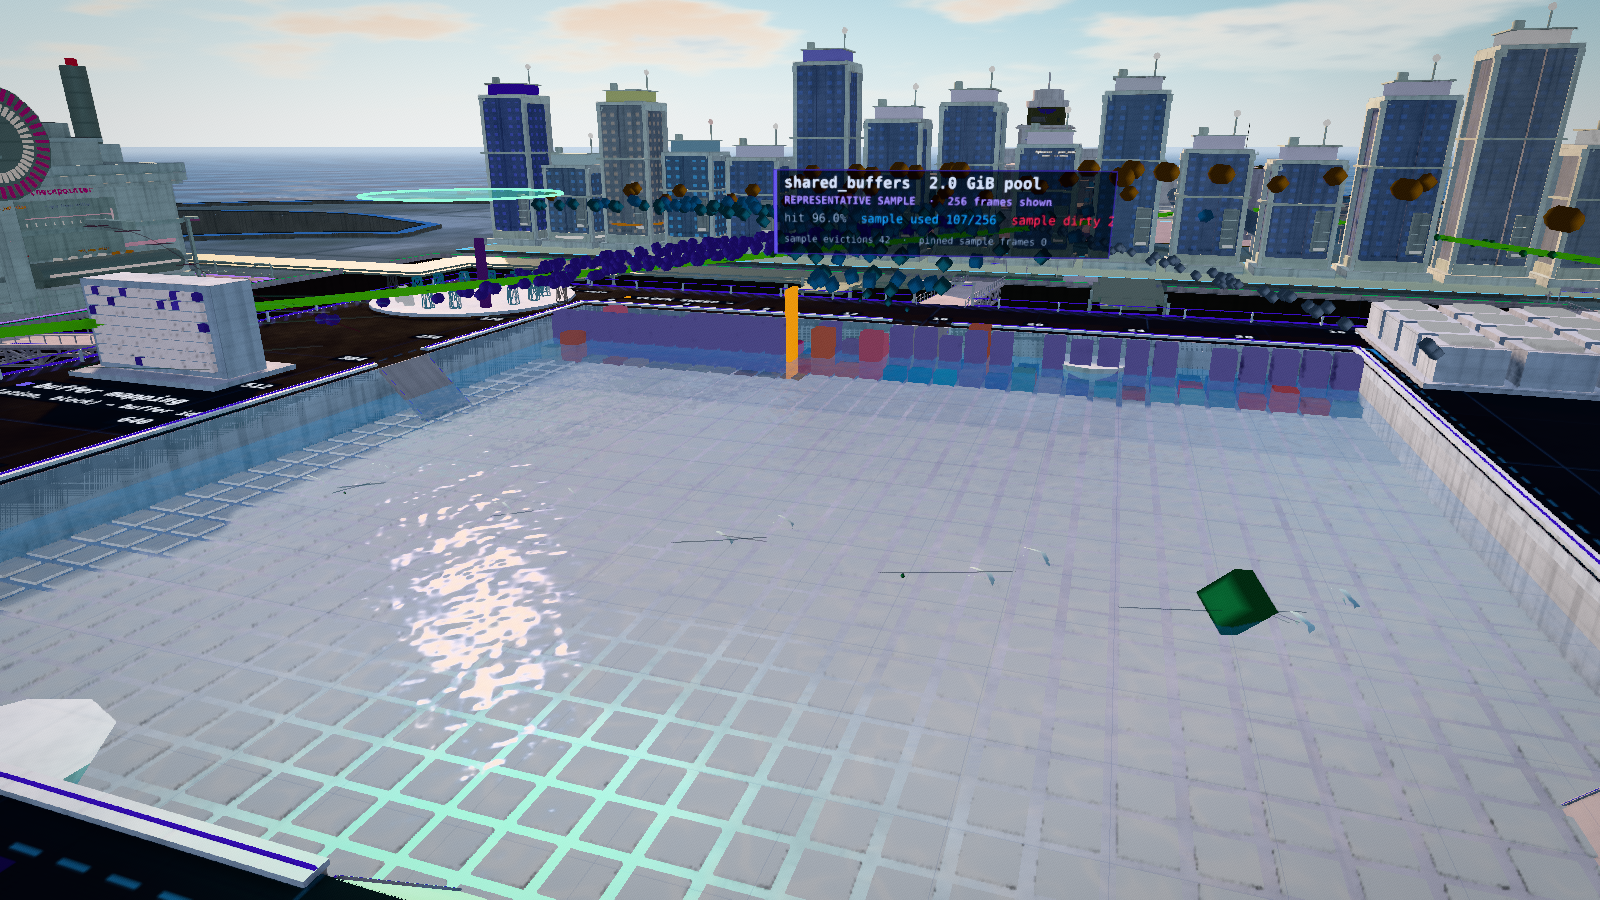
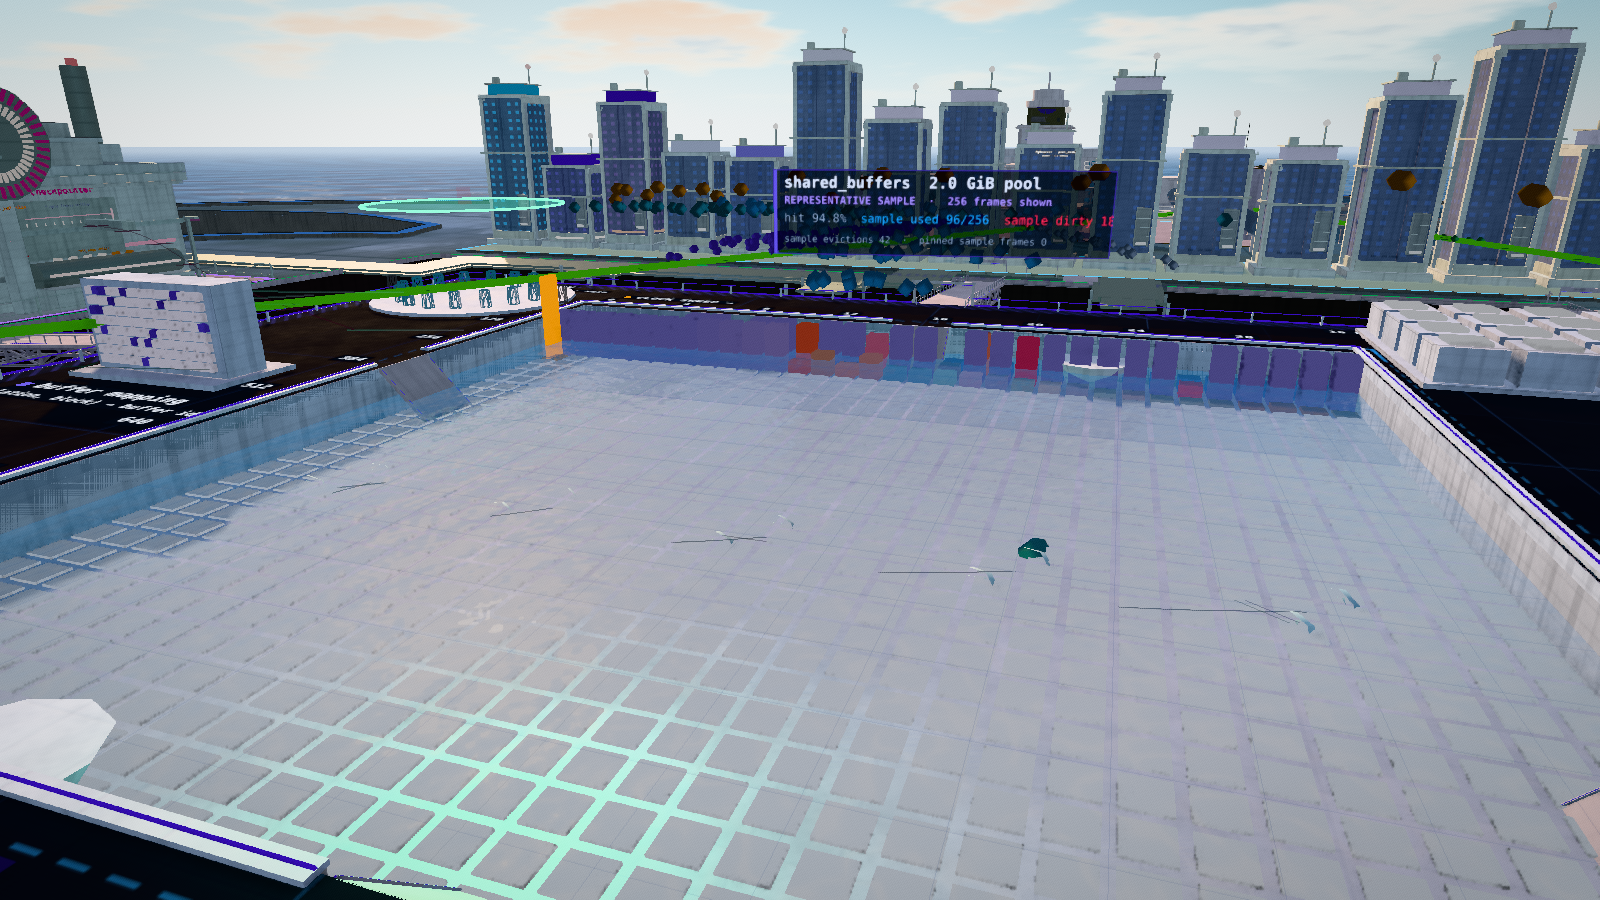
docs: retake pool evidence after review fixes
Claude-Session: https://claude.ai/code/session_01Rq7zU2f3hDKYudaAHdTot7

diff --git a/evidence/water/README.md b/evidence/water/README.md
@@ -30,3 +30,5 @@ Graphics only. Captures are 1600x900 with HUD and labels hidden, through
   frozen under reduced motion.
 - Caustics. At 5% they are barely visible in a still; they read in motion.
 - Frame rate. Software WebGL only.
+- The coast and overview captures predate the review fixes to distant surf
+  (crests widen past 220 m); the two pool captures were retaken after them.
